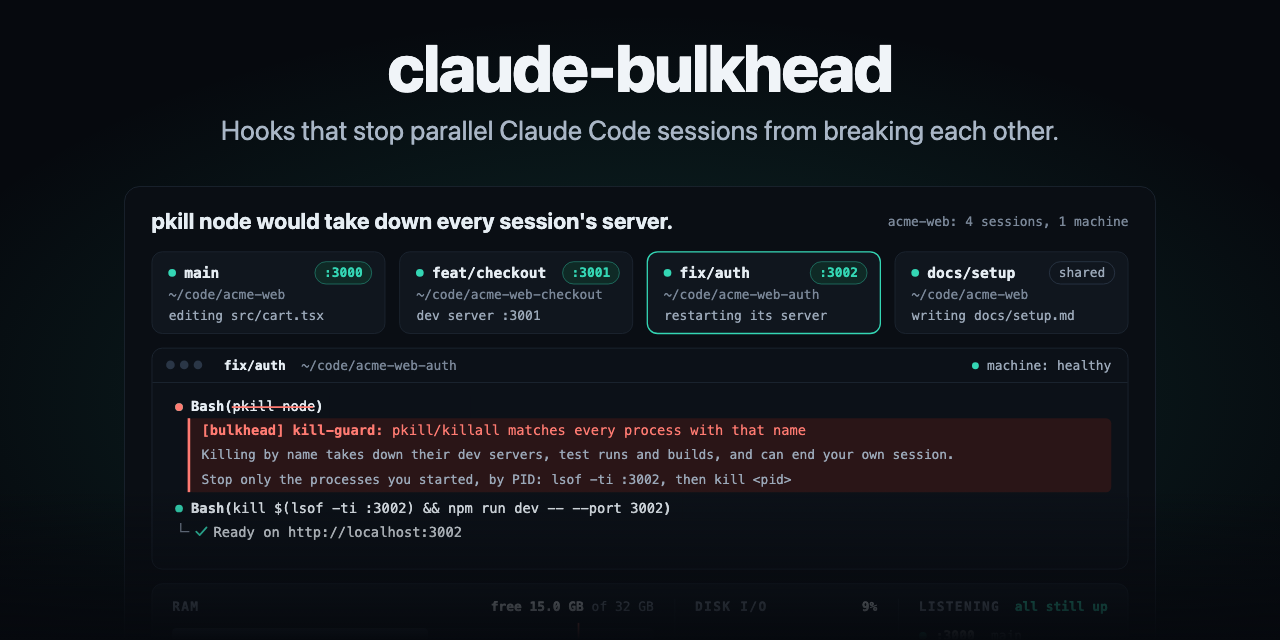
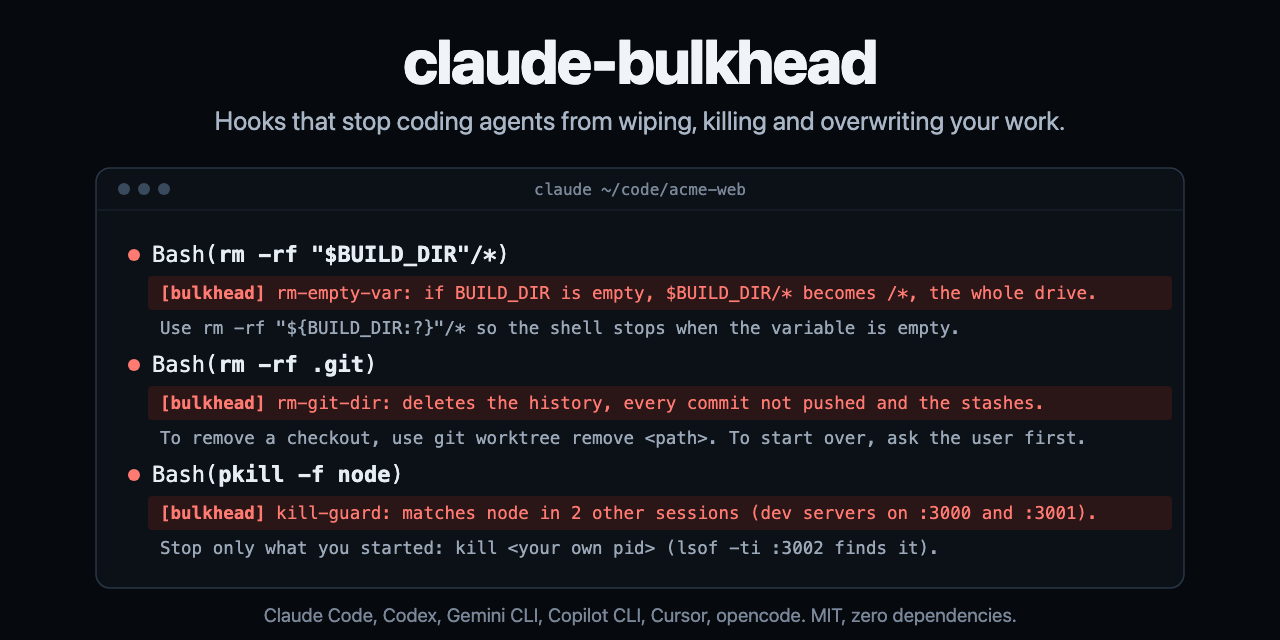
Social card: show the three commands bulkhead blocks most often

diff --git a/docs/motion/social.py b/docs/motion/social.py
@@ -1,34 +1,49 @@
-"""The GitHub social card (1280x640), a still of the hero under the title.
-build.py writes it to a temp folder and render.js turns it into docs/social-preview.png."""
+"""The GitHub social card (1280x640): three commands a coding agent ran and the bulkhead message it got back.
+build.py writes it to a temp folder and render.js turns it into docs/social-preview.png.
+The messages are shortened from the real `bulkhead explain` output for these commands."""
 import os
 import sys
 
-import hero
-from common import DARK, SANS, e
+from common import DARK, MONO, SANS, e
 
 W, H = 1280, 640
+C = DARK
+
+BLOCKS = [
+    ('rm -rf "$BUILD_DIR"/*',
+     'rm-empty-var: if BUILD_DIR is empty, $BUILD_DIR/* becomes /*, the whole drive.',
+     'Use rm -rf "${BUILD_DIR:?}"/* so the shell stops when the variable is empty.'),
+    ('rm -rf .git',
+     "rm-git-dir: deletes the history, every commit not pushed and the stashes.",
+     'To remove a checkout, use git worktree remove <path>. To start over, ask the user first.'),
+    ('pkill -f node',
+     'kill-guard: matches node in 2 other sessions (dev servers on :3000 and :3001).',
+     'Stop only what you started: kill <your own pid> (lsof -ti :3002 finds it).'),
+]
+
+
+def block(y, cmd, msg, hint):
+    x = 128
+    pre = 'Bash('
+    return f'''<circle cx="{x + 6}" cy="{y - 7}" r="6" fill="{C['red']}"/>
+<text x="{x + 24}" y="{y}" font-family="{e(MONO)}" font-size="22" fill="{C['fg']}">{e(pre)}<tspan fill="{C['fg']}" font-weight="600">{e(cmd)}</tspan>)</text>
+<rect x="{x + 20}" y="{y + 14}" width="1024" height="34" rx="4" fill="{C['redbg']}"/>
+<text x="{x + 32}" y="{y + 37}" font-family="{e(MONO)}" font-size="17.5" fill="{C['red']}"><tspan font-weight="700">[bulkhead]</tspan> {e(msg)}</text>
+<text x="{x + 32}" y="{y + 72}" font-family="{e(MONO)}" font-size="17.5" fill="{C['mute']}">{e(hint)}</text>'''
 
 
 def build():
-    style, body = hero.build(DARK, still_only=True, still=hero.B[1] + 2.9)  # the kill-guard moment
-    s = 0.86
-    hx = (W - hero.W * s) / 2
-    hy = 186
+    blocks = '\n'.join(block(262 + i * 110, *b) for i, b in enumerate(BLOCKS))
     return f'''<svg xmlns="http://www.w3.org/2000/svg" viewBox="0 0 {W} {H}" width="{W}" height="{H}" font-family="{e(SANS)}">
-<defs>
-<radialGradient id="glow" cx="50%" cy="62%" r="60%"><stop offset="0" stop-color="{DARK['ac']}" stop-opacity=".16"/>
-<stop offset="1" stop-color="{DARK['ac']}" stop-opacity="0"/></radialGradient>
-<linearGradient id="fadeb" x1="0" y1="0" x2="0" y2="1"><stop offset="0" stop-color="#06090e" stop-opacity="0"/>
-<stop offset="1" stop-color="#06090e" stop-opacity="1"/></linearGradient>
-</defs>
 <rect width="{W}" height="{H}" fill="#06090e"/>
-<rect width="{W}" height="{H}" fill="url(#glow)"/>
-<text x="{W / 2}" y="92" text-anchor="middle" font-size="66" font-weight="800" fill="#f0f4f8" letter-spacing="-1.5">claude-bulkhead</text>
-<text x="{W / 2}" y="140" text-anchor="middle" font-size="27" fill="#a9b6c6">Hooks that stop parallel Claude Code sessions from breaking each other.</text>
-<g transform="translate({hx:.1f},{hy}) scale({s})">
-<svg viewBox="0 0 {hero.W} {hero.H}" width="{hero.W}" height="{hero.H}"><style>{style}</style>{body}</svg>
-</g>
-<rect x="0" y="{H - 150}" width="{W}" height="150" fill="url(#fadeb)"/>
+<text x="{W / 2}" y="84" text-anchor="middle" font-size="62" font-weight="800" fill="#f0f4f8" letter-spacing="-1.5">claude-bulkhead</text>
+<text x="{W / 2}" y="130" text-anchor="middle" font-size="26" fill="#a9b6c6">Hooks that stop coding agents from wiping, killing and overwriting your work.</text>
+<rect x="96" y="168" width="1088" height="420" rx="14" fill="{C['term']}" stroke="{C['line2']}" stroke-width="1.5"/>
+<path d="M96 210 h1088" stroke="{C['line']}"/>
+<circle cx="124" cy="189" r="6" fill="{C['base']}"/><circle cx="144" cy="189" r="6" fill="{C['base']}"/><circle cx="164" cy="189" r="6" fill="{C['base']}"/>
+<text x="640" y="195" text-anchor="middle" font-family="{e(MONO)}" font-size="16" fill="{C['dim']}">claude  ~/code/acme-web</text>
+{blocks}
+<text x="{W / 2}" y="622" text-anchor="middle" font-size="19" fill="{C['dim']}">Claude Code, Codex, Gemini CLI, Copilot CLI, Cursor, opencode.  MIT, zero dependencies.</text>
 </svg>'''
 
 

diff --git a/docs/motion/README.md b/docs/motion/README.md
@@ -4,7 +4,7 @@ Python 3 (stdlib only) sources for the animated README graphics. They write:
 
 - `docs/hero.svg`, `docs/hero-light.svg`: four Claude Code sessions on one machine, five guard moments, then the `bulkhead scan` result (25 s loop).
 - `docs/scan.svg`, `docs/scan-light.svg`: a terminal running `bulkhead scan` (16 s loop). The text is the real output of the tool on the synthetic transcripts from `scripts/demo-scan/make-transcripts.js`, regenerated on every build.
-- `docs/social-preview.png`: the 1280x640 GitHub social card, a still of the hero under the title.
+- `docs/social-preview.png`: the 1280x640 GitHub social card: three agent commands and the bulkhead message each one got (texts shortened from `bulkhead explain`).
 
 Rebuild everything from the repository root:
 
